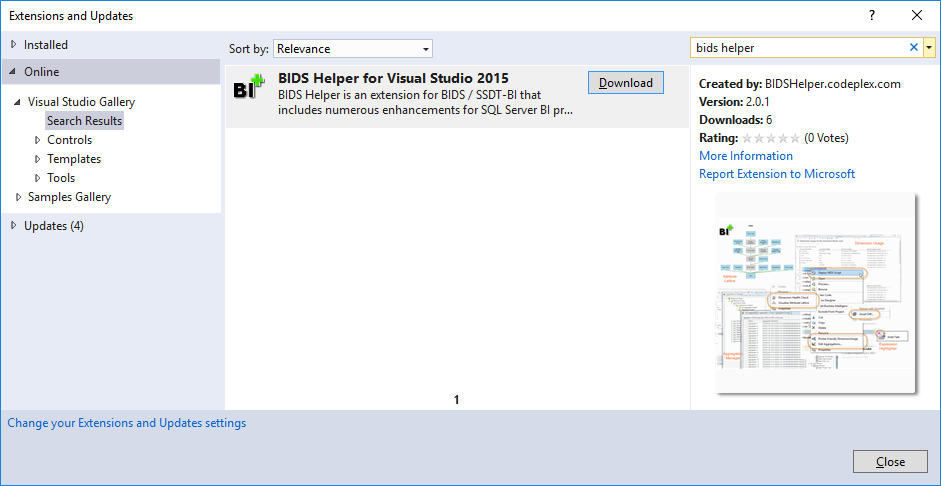
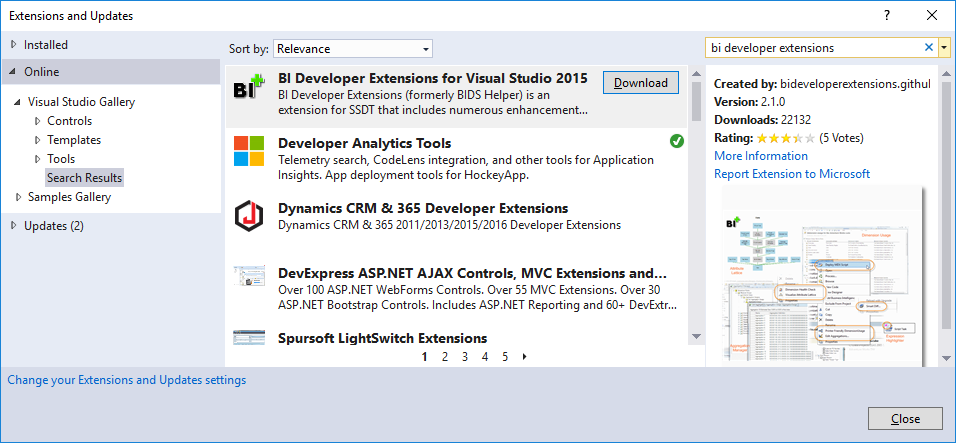
updating install instructions now that we are out of beta for VS2017

Changed region(s): [[0.0, 0.0, 1.0, 0.8804], [0.8937, 0.9097, 0.9862, 0.9977]]

diff --git a/_features/InstallingfromtheVisualStudioGallery.md b/_features/InstallingfromtheVisualStudioGallery.md
@@ -5,15 +5,18 @@ component: common
 
 **Visual Studio 2015**
 
-*{{site.title}}* for SQL 2016 is installed in Visual Studio 2015 and this version of the add-in is published in the Visual Studio Gallery. To install it, go to Tools... Extensions and Updates... go to the Online tab and then search for *BIDS Helper* (be patient as we are in the progress of renaming to *{{site.title}}*):
+*{{site.title}}* for Visual Studio 2015 is published in the Visual Studio Gallery. To install it, go to Tools... Extensions and Updates... go to the Online tab and then search for *{{site.title}}*:
 
 ![](Installing from the Visual Studio Gallery_BIDSHelperVSGallery.png)
 
-You can also download it from the Visual Studio Gallery in a web browser [here](https://marketplace.visualstudio.com/vsgallery/e8c17a53-f117-426d-9e92-407115777d6e).
-
-**KNOWN ISSUE:** When installing SSDT, install SSAS, SSRS, and SSIS. *{{site.title}}* does not currently support partial installs of SSDT.
+You can also download it from the Visual Studio Gallery in a web browser [here](https://marketplace.visualstudio.com/items?itemName=BIDSHelper.BIDSHelperforVisualStudio2015).
 
 
 **Visual Studio 2017**
 
-If you must use Visual Studio 2017 then click [furmangg](https://www.codeplex.com/site/users/view/furmangg) and shoot me an email to become a beta tester as we work on support.
+*{{site.title}}* for Visual Studio 2012 is published in the Visual Studio Gallery. To install it, go to Tools... Extensions and Updates... go to the Online tab and then search for *{{site.title}}*:
+
+![](Installing from the Visual Studio Gallery_BIDSHelperVSGallery2017.png)
+
+You can also download it from the Visual Studio Gallery in a web browser [here](https://marketplace.visualstudio.com/items?itemName=BIDSHelper.BIDeveloperExtensionsVS2017).
+
